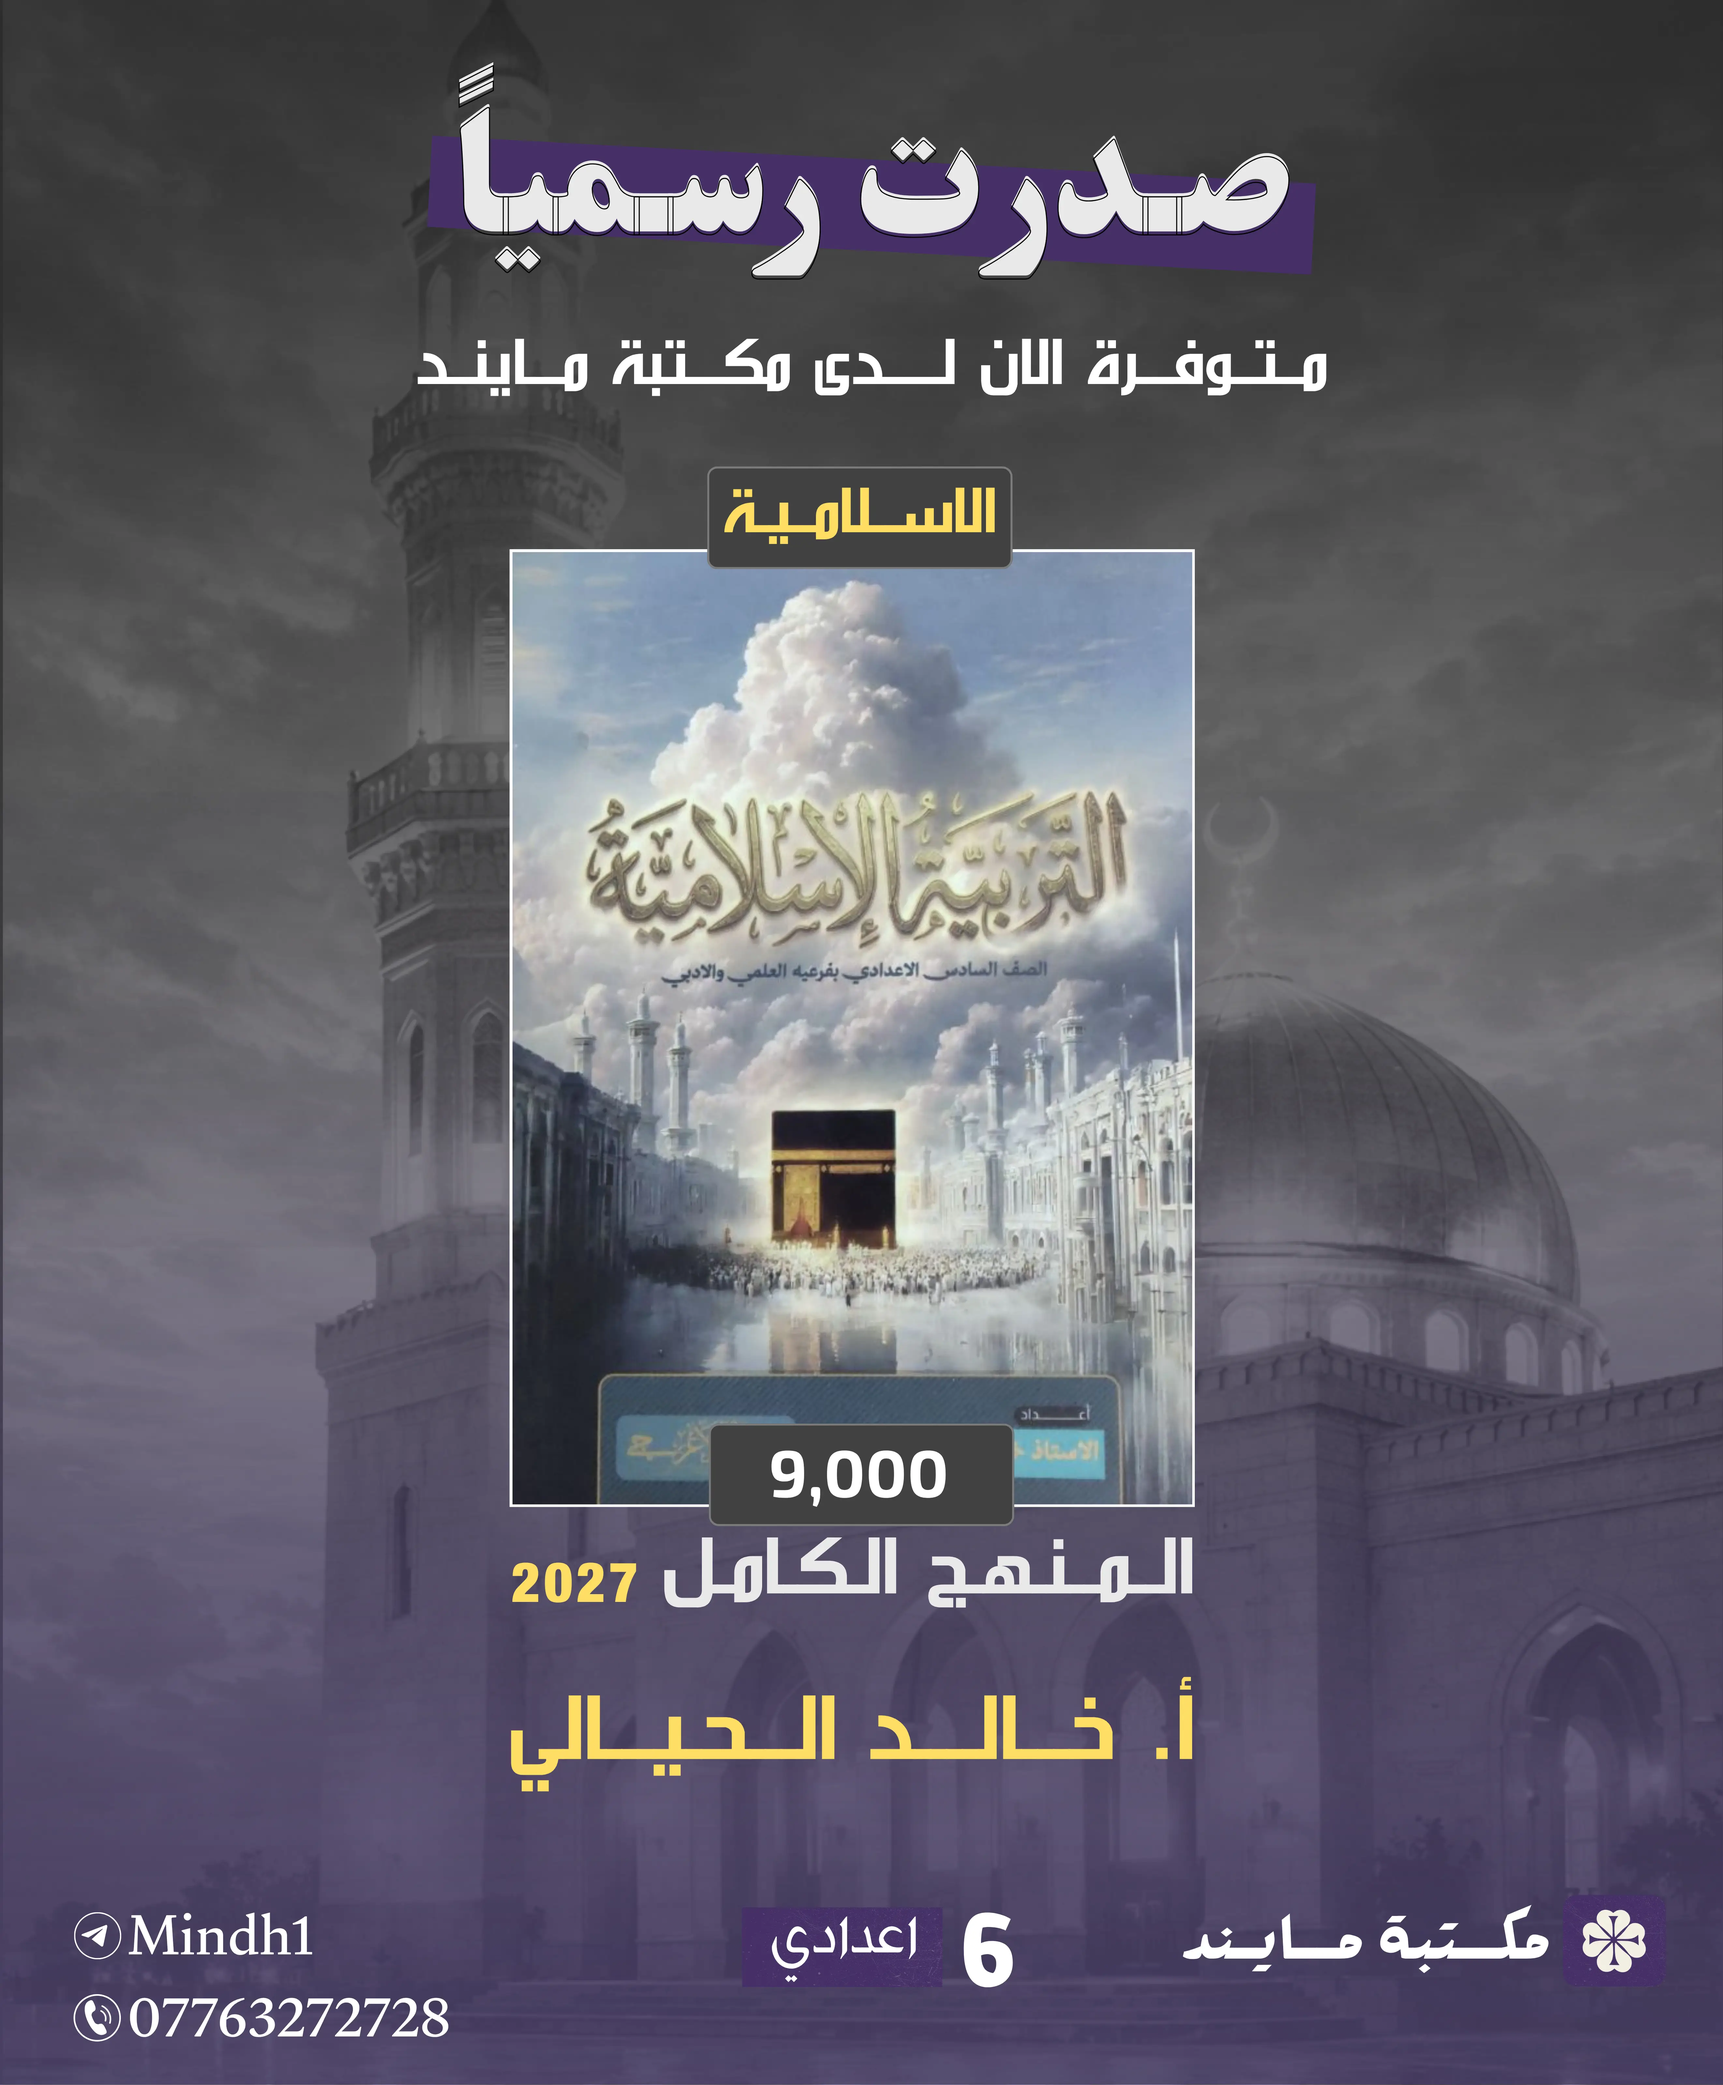
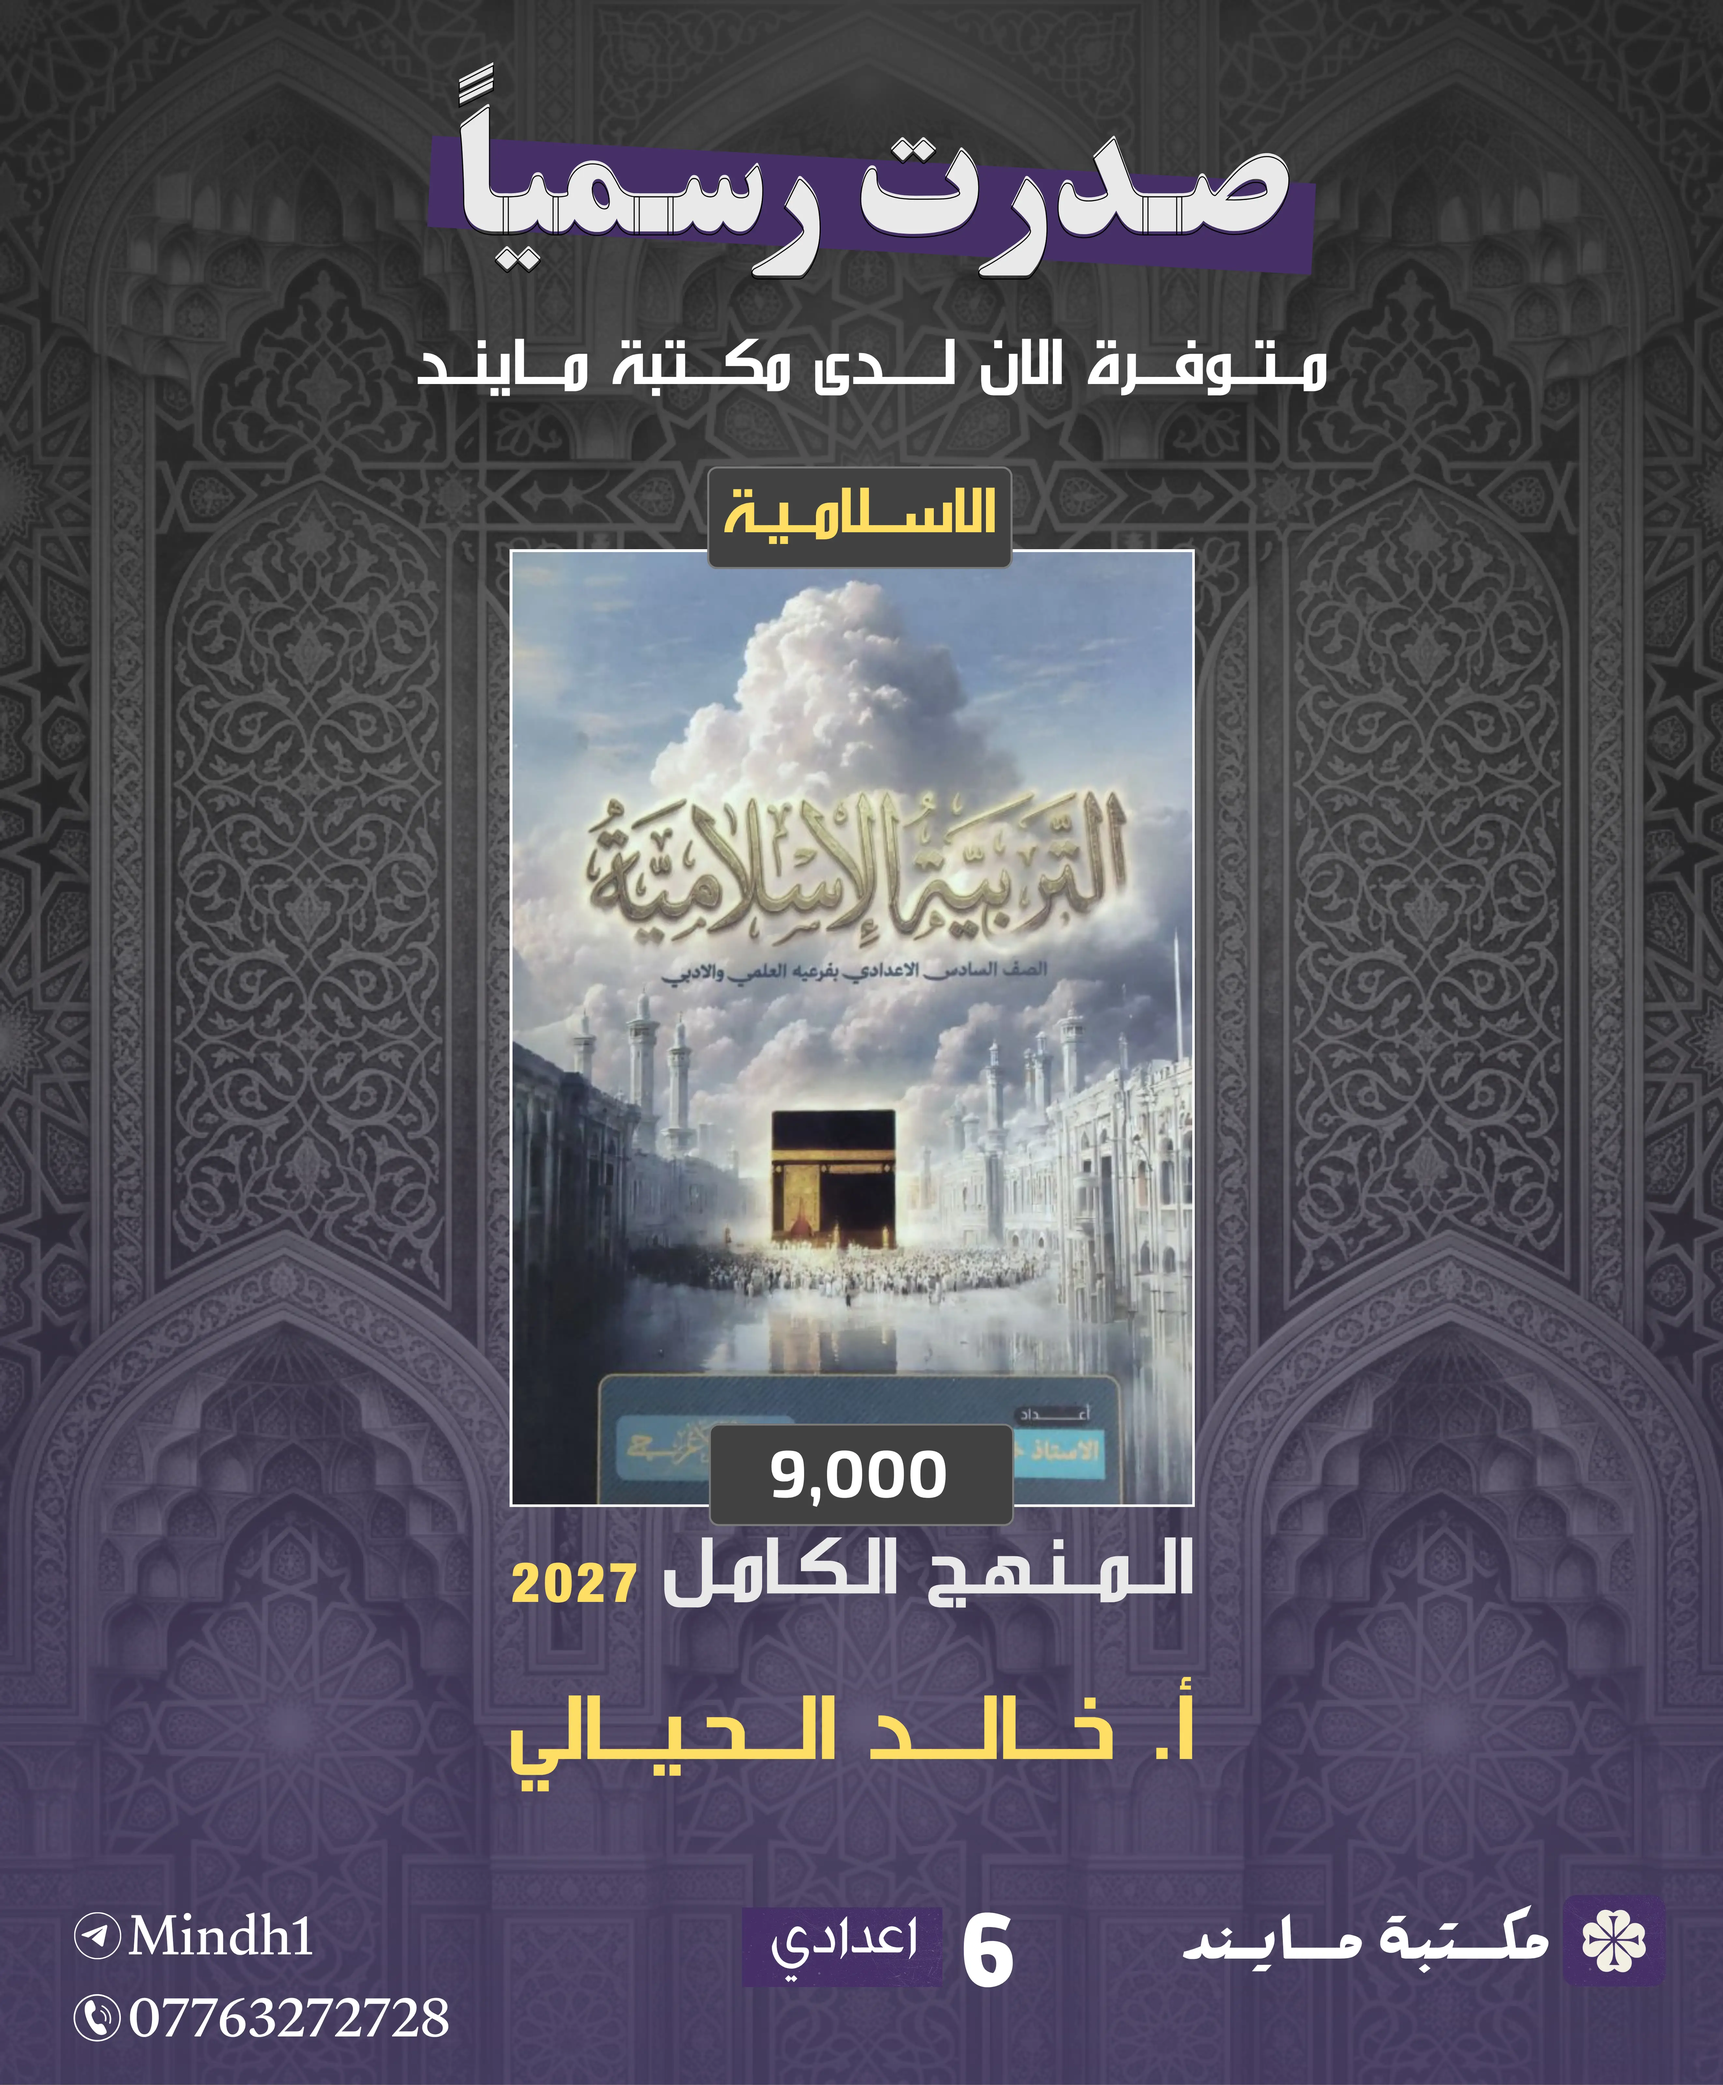
Add files via upload

diff --git a/index.html b/index.html
@@ -12203,7 +12203,7 @@
 
                                                         <button class="btn-order"
 
-                                                        onclick="addToCart('ملزمة اسلامية عمار فاضل المنهج الكامل', 11000)">اضف للسلة </button>   <!-- زر اضافة للسلة -->
+                                                        onclick="addToCart('ملزمة اسلامية عمار فاضل السادس الاعدادي', 11000)">اضف للسلة </button>   <!-- زر اضافة للسلة -->
 
                                                      </div>   <!-- نهاية الدف الذي يحتوي على السعر و زر اضافة للسلة -->
 
@@ -12389,6 +12389,64 @@
 
                   </div>   <!-- نهاية الحاوية الكاملة للبطاقة الواحدة ( نهاية الكارد ) -->
 
+                  <div class="book-card">   <!-- يمثل الحاوية الكاملة للبطاقة الخاصة للملزمة الواحدة -->
+
+                                                   <div class="image-wrapper">   <!-- دف يحتوي على صورة -->
+
+                                                      <img src="sagdalikeli_bound_mnhg_0.webp" class="mlz" alt="1" loading="lazy">
+
+                                                   </div>   <!-- نهاية الدف الذي يحتوي على صولاة الملزمة -->
+
+                                                   <div class="card-details">   <!-- دف يحتوي على معلومات الملزمة -->
+                <!--  -->
+                                                       <span class="badge"> السادس الاعدادي </span>   <!-- الصف -->
+
+                                                     <h3 class="book-name"> ملزمة الاسلامية - المنهج الكامل </h3>   <!-- نوع الملزمة -->
+
+                                                      <!-- يحتوي على معلومات الملزمة مع شكل الايقونة -->      <p class="mlz-info">
+                                                          <svg  class="svg-img-info"  width="18" height="18" viewBox="0 0 24 24" fill="none" stroke="#7eb67d" stroke-width="2" stroke-                                                                      linecap="round" stroke-linejoin="round">
+                                                          <rect x="3" y="4" width="18" height="18" rx="2" ry="2"></rect>
+                                                          <line x1="16" y1="2" x2="16" y2="6"></line>
+                                                          <line x1="8" y1="2" x2="8" y2="6"></line>
+                                                          <line x1="3" y1="10" x2="21" y2="10"></line>
+                                                          </svg> 
+                                                          دفعة 2027   </p>
+
+                                                       <!-- يحتوي على معلومات الملزمة مع شكل الايقونة -->      <p class="mlz-info"> <svg  class="svg-img-info"  width="20" height="20" viewBox="0 0 24 24" fill="none" stroke="#7eb67d" stroke-width="2" stroke-                                                  linecap="round" stroke-linejoin="round">
+                                                           <polygon points="12 2 2 7 12 12 22 7 12 2"></polygon>
+                                                           <polyline points="2 17 12 22 22 17"></polyline>
+                                                           <polyline points="2 12 12 17 22 12"></polyline>
+                                                           </svg>
+                                                             المنهج الكامل</p>
+
+
+                                                       <!-- يحتوي على معلومات الملزمة مع شكل الايقونة -->     <p class="mlz-info"> <svg  class="svg-img-info"  width="20" height="20" viewBox="0 0 24 24" fill="none" stroke="#7eb67d" stroke-width="2" stroke-                                                 linecap="round" stroke-linejoin="round">
+                                                         <path d="M4 19.5A2.5 2.5 0 0 1 6.5 17H20"></path>
+                                                         <path d="M6.5 2H20v20H6.5A2.5 2.5 0 0 1 4 19.5v-15A2.5 2.5 0 0 1 6.5 2z"></path>
+                                                         </svg>   144 صفحة - ورق زيتي - سبايرول   </p>  
+
+
+                                                     <div class="footer-card">   <!-- دف يحتوي على السعر و على زر اضافة للسلة -->
+
+                                                        <span class="price-text"> 12,000 <small> د.ع </small> </span>   <!-- السعر و العملة -->
+
+                                                        <svg  class="icon-in-btn-add" width="18" height="18" viewBox="0 0 24 24" fill="none" stroke="white"
+                                                             stroke-width="2" stroke-linecap="round" stroke-linejoin="round"> 
+                                                             <path d="M6 2L3 6v14a2 2 0 0 0 2 2h14a2 2 0 0 0 2-2V6l-3-4Z"></path>
+                                                             <line x1="3" y1="6" x2="21" y2="6"></line>
+                                                             <path d="M16 10a4 4 0 0 1-8 0"></path>
+                                                             </svg>   <!-- الايقونة --> 
+
+                                                        <button class="btn-order"
+
+                                                        onclick="addToCart('ملزمة اسلامية ساجد العكيلي السادس الاعدادي', 12000)">اضف للسلة </button>   <!-- زر اضافة للسلة -->
+
+                                                     </div>   <!-- نهاية الدف الذي يحتوي على السعر و زر اضافة للسلة -->
+
+                                                   </div>   <!-- نهاية الدف الذي يحتوي على معلومات الملزمة -->
+
+                                                </div>   <!-- نهاية الحاوية الكاملة للبطاقة الواحدة ( نهاية الكارد ) -->
+
                            </div>   <!-- نهاية قسم ملازم ساجد العكيلي -->
 
              <div id="smr-ali" class="teacher-group">   <!-- قسم ملازم سمر علي -->
@@ -12501,7 +12559,7 @@
 
                                                         <button class="btn-order"
 
-                                                        onclick="addToCart('ملزمة اسلامية خالد الحيالي المنهج الكامل', 9000)">اضف للسلة </button>   <!-- زر اضافة للسلة -->
+                                                        onclick="addToCart('ملزمة اسلامية خالد الحيالي السادس الاعدادي', 9000)">اضف للسلة </button>   <!-- زر اضافة للسلة -->
 
                                                      </div>   <!-- نهاية الدف الذي يحتوي على السعر و زر اضافة للسلة -->
 
